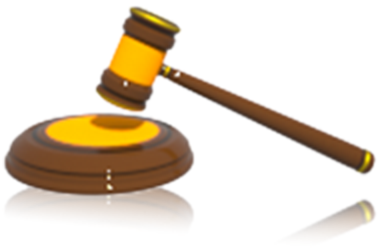
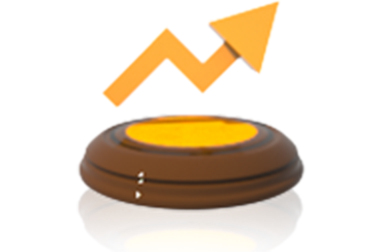
【whuipo-Home】得分展示

diff --git a/packages/whuipo/frontend/src/routes/components/Hall3d.tsx b/packages/whuipo/frontend/src/routes/components/Hall3d.tsx
@@ -42,20 +42,20 @@ enum PlayModes {
 enum GameSteps { first, second, third, fourth, fifth }
 
 const GamePhaseToStep = {
-  [GameTypes.IPO_Median]: GameSteps.third,
-  [GameTypes.IPO_TopK]: GameSteps.third,
-  [GameTypes.IPO_FPSBA]: GameSteps.third,
-  [GameTypes.OpenAuction]: GameSteps.third,
-  [GameTypes.CBM]: GameSteps.first,
-  [GameTypes.CBM_Leverage]: GameSteps.first,
-  [GameTypes.TBM]: GameSteps.fifth
+  [GameTypes.OpenAuction]: GameSteps.first,
+  [GameTypes.IPO_Median]: GameSteps.second,
+  [GameTypes.IPO_TopK]: GameSteps.second,
+  [GameTypes.IPO_FPSBA]: GameSteps.second,
+  [GameTypes.TBM]: GameSteps.third,
+  [GameTypes.CBM]: GameSteps.fifth,
+  [GameTypes.CBM_Leverage]: GameSteps.fifth
 }
 const GameStepsToGamePhase = {
   [GameSteps.first]: GameTypes.OpenAuction,
   [GameSteps.second]: [GameTypes.IPO_TopK, GameTypes.IPO_Median, GameTypes.IPO_FPSBA],
-  [GameSteps.fifth]: GameTypes.TBM,
+  [GameSteps.third]: GameTypes.TBM,
   [GameSteps.fourth]: GameTypes.CBM,
-  [GameSteps.third]: GameTypes.CBM_Leverage
+  [GameSteps.fifth]: GameTypes.CBM_Leverage
 }
 
 const gamePhaseOrder = {
@@ -236,6 +236,7 @@ interface State {
   isInitView: boolean,
   focusGameType?: GameTypes,
   matchTimer?: number,
+  score:number
 }
 
 export default class Hall3D extends React.Component<Props, State> {
@@ -257,6 +258,7 @@ export default class Hall3D extends React.Component<Props, State> {
   matchTimer: number
   continuePlayUrl: string
   state: State = {
+    score:0,
     isInitView: true,
     focusGameStep: null,
     showPreStartModal: false,
@@ -266,14 +268,12 @@ export default class Hall3D extends React.Component<Props, State> {
 
   reqInitInfo() {
     reqInitInfo().then(res => {
-      console.log(res)
       if (res.code === ResCode.success) {
         this.connectSocket()
         const user: UserDoc = res.user
         const {unblockGamePhase} = user
-
+        this.setState({score:user.phaseScore.reduce((m,n)=>m+n,0)})
         const userUnBlockGameOrder = gamePhaseOrder[unblockGamePhase] || 0
-        console.log(userUnBlockGameOrder, 'user now unlock order')
         Object.keys(GameRenderConfigs).forEach((gameStep) => {
 
           const gamePhase = GameStepsToGamePhase[gameStep]
@@ -281,7 +281,6 @@ export default class Hall3D extends React.Component<Props, State> {
           const isLock = gameStepPhaseOrder > (userUnBlockGameOrder + 1)
           GameRenderConfigs[gameStep].isLock = isLock
         })
-        console.log(GameRenderConfigs, 'config')
         this.initView()
 
         const urlObj = new URL(window.location.href)
@@ -427,7 +426,6 @@ export default class Hall3D extends React.Component<Props, State> {
   }
 
   handlePointerOver(gameStep: GameSteps) {
-    // console.log('onver', gameStep, arguments)
     return
     if (!this.state.isDetailView) {
       return
@@ -445,7 +443,6 @@ export default class Hall3D extends React.Component<Props, State> {
   }
 
   handlePointerOut(gameStep: GameSteps) {
-    // console.log('out', gameStep, arguments)
     if (!this.state.isDetailView) {
       return
     }
@@ -507,8 +504,6 @@ export default class Hall3D extends React.Component<Props, State> {
       const ratio = textWidth / testFontSize
 
       const realFontSize = cardWidth / (ratio * 1.4)
-
-      console.log(img.naturalWidth, img.naturalHeight, cardWidth, cardHeight)
       textureContext.drawImage(this as any, 0, 0, img.naturalWidth, img.naturalHeight, 0, 0, cardWidth, cardHeight)
       textureGround.update()
 
@@ -525,7 +520,6 @@ export default class Hall3D extends React.Component<Props, State> {
   renderHoverMaskInstance(gameStep: GameSteps) {
     return
     const {maskPosition, maskSize, maskRotateY = 0} = GameRenderConfigs[gameStep]
-    console.log(maskPosition, maskSize, 'mask')
     const myGround = BABYLON.MeshBuilder.CreateGround(`hoverMask${gameStep}`, {
       width: maskSize.width,
       height: maskSize.height,
@@ -742,7 +736,6 @@ export default class Hall3D extends React.Component<Props, State> {
       switch (pointerInfo.type) {
 
         case BABYLON.PointerEventTypes.POINTERUP:
-          console.log(pointerInfo)
           break
         case BABYLON.PointerEventTypes.POINTERMOVE:
           break
@@ -759,11 +752,7 @@ export default class Hall3D extends React.Component<Props, State> {
   connectSocket() {
     const io = socket.connect('/')
     this.io = io
-    io.on('connect', (socket) => {
-      console.log('io connected')
-    })
     io.on(clientSocketListenEvnets.startMatch, () => {
-      console.log('recive startmatch')
       this.setState({
         modalContentType: ModalContentTypes.waittingMatch,
         matchTimer: 0
@@ -778,7 +767,6 @@ export default class Hall3D extends React.Component<Props, State> {
       if (this.matchTimer) {
         clearInterval(this.matchTimer)
       }
-      console.log('recive start game', playerUrl)
       this.setState({
         modalContentType: ModalContentTypes.matchSuccess
       })
@@ -806,8 +794,11 @@ export default class Hall3D extends React.Component<Props, State> {
   }
 
   render() {
-    const {isDetailView, isInitView} = this.state
+    const {isDetailView, isInitView, score} = this.state
     return <div>
+      <span className={style.score}>
+        Score: {score}
+      </span>
       {
         isInitView && <div className={style.loading}>
             <Loading label="加载中"/>
@@ -826,7 +817,7 @@ export default class Hall3D extends React.Component<Props, State> {
       <section className={style.dock}>
         <div onClick={() => this.handleSelectGame(GameSteps.first)}>
           <label>市场拍卖</label>
-          <img src={require('../../assets/dock/ipo.png')}/>
+          <img src={require('../../assets/dock/auction.png')}/>
         </div>
         <div onClick={() => this.handleSelectGame(GameSteps.second)}>
           <label>IPO</label>
@@ -842,7 +833,7 @@ export default class Hall3D extends React.Component<Props, State> {
         </div>
         <div onClick={() => this.handleSelectGame(GameSteps.fifth)}>
           <label>融资融券</label>
-          <img src={require('../../assets/dock/cbm.png')}/>
+          <img src={require('../../assets/dock/cbm_l.png')}/>
         </div>
       </section>
     </div>

diff --git a/packages/whuipo/controller.ts b/packages/whuipo/controller.ts
@@ -181,6 +181,16 @@ const gamePhaseOrder = {
   [Phase.CBM_Leverage]: 3
 }
 
+const PhaseScore = {
+  [Phase.IPO_Median]: 10,
+  [Phase.IPO_TopK]: 10,
+  [Phase.IPO_FPSBA]: 10,
+  [Phase.OpenAuction]: 10,
+  [Phase.TBM]: 20,
+  [Phase.CBM]: 20,
+  [Phase.CBM_Leverage]: 20
+}
+
 RedisCall.handle<Trial.Done.IReq, Trial.Done.IRes>(
     Trial.Done.name,
     async ({userId, onceMore, namespace}) => {
@@ -195,6 +205,9 @@ RedisCall.handle<Trial.Done.IReq, Trial.Done.IRes>(
         if (orderOfNowGame > lastUserUnlockOrder) {
           user.unblockGamePhase = phase
         }
+        const phaseScore = user.phaseScore.slice()
+        phaseScore[phase] = PhaseScore[phase]
+        user.phaseScore = phaseScore
         await user.save()
         await RedisTools.setUserGameData(uid, phase, {
           status: UserGameStatus.notStarted
@@ -268,7 +281,6 @@ export default class RouterController {
         encrypted.nonce
         }&cnonce=${encrypted.cnonce}`
     const response = await request(url)
-    console.log(response)
     res.send(response)
   }
 

diff --git a/packages/whuipo/models.ts b/packages/whuipo/models.ts
@@ -6,7 +6,8 @@ const UserSchema = new Schema({
   updateAt: Date,
   mobile:   {type: String, unique: true}, // 手机号(11位)
   unionId: {type: String, unique: true},
-  unblockGamePhase: Number
+  unblockGamePhase: Number,
+  phaseScore: {type: Array, default:[]}
 })
 
 UserSchema.pre<UserDoc>('save', function (next) {

diff --git a/packages/whuipo/interfaces.ts b/packages/whuipo/interfaces.ts
@@ -8,4 +8,5 @@ interface IDocument extends Document {
 export interface UserDoc extends IDocument {
     unionId: string,
     unblockGamePhase?: Phase
+    phaseScore: Array<number>
 }

diff --git a/packages/whuipo/frontend/src/enums.ts b/packages/whuipo/frontend/src/enums.ts
@@ -7,6 +7,7 @@ export interface UserDoc {
   createAt: number;
   unionId: string,
   unblockGamePhase?: Phase
+  phaseScore: Array<number>
 }
 
 export enum UserGameStatus {

diff --git a/packages/whuipo/frontend/src/routes/components/style.less b/packages/whuipo/frontend/src/routes/components/style.less
@@ -136,4 +136,13 @@
   }
 }
 
+.score{
+  position: fixed;
+  right: 0;
+  font-size: 2rem;
+  background: rgba(0,0,0,.5);
+  padding: 1rem 1.5rem;
+  color: white;
+}
+
 
